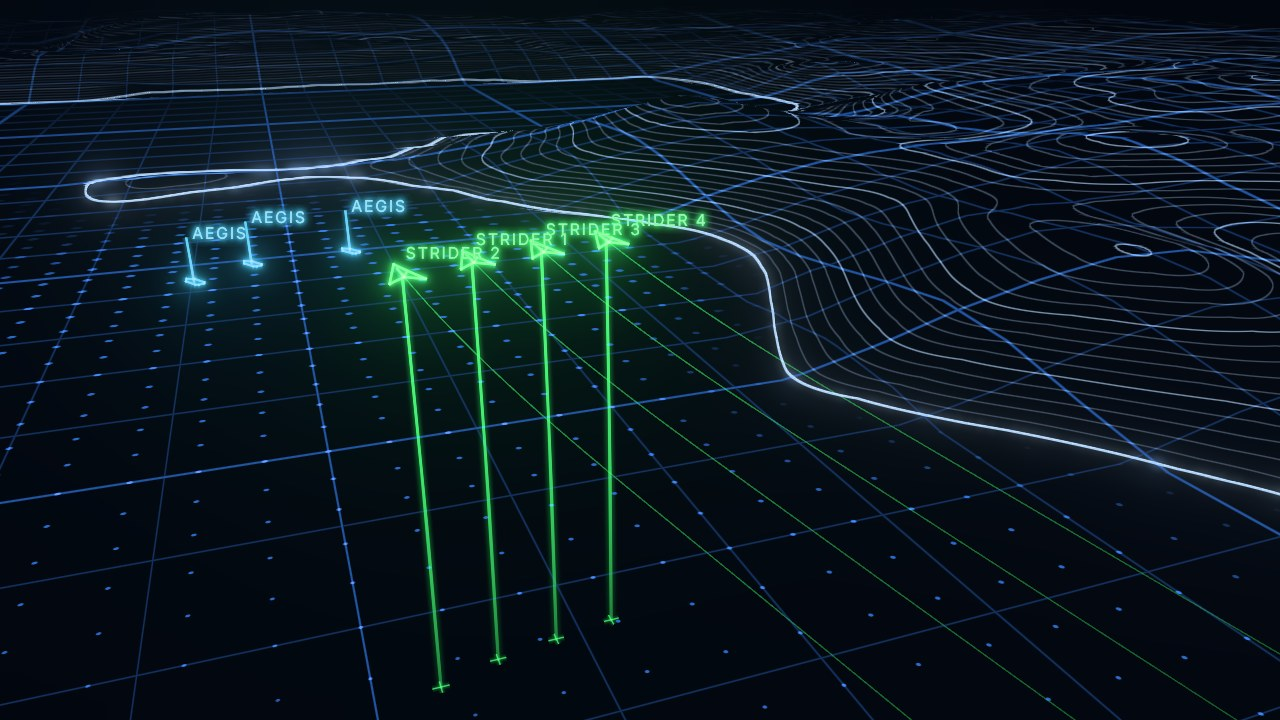
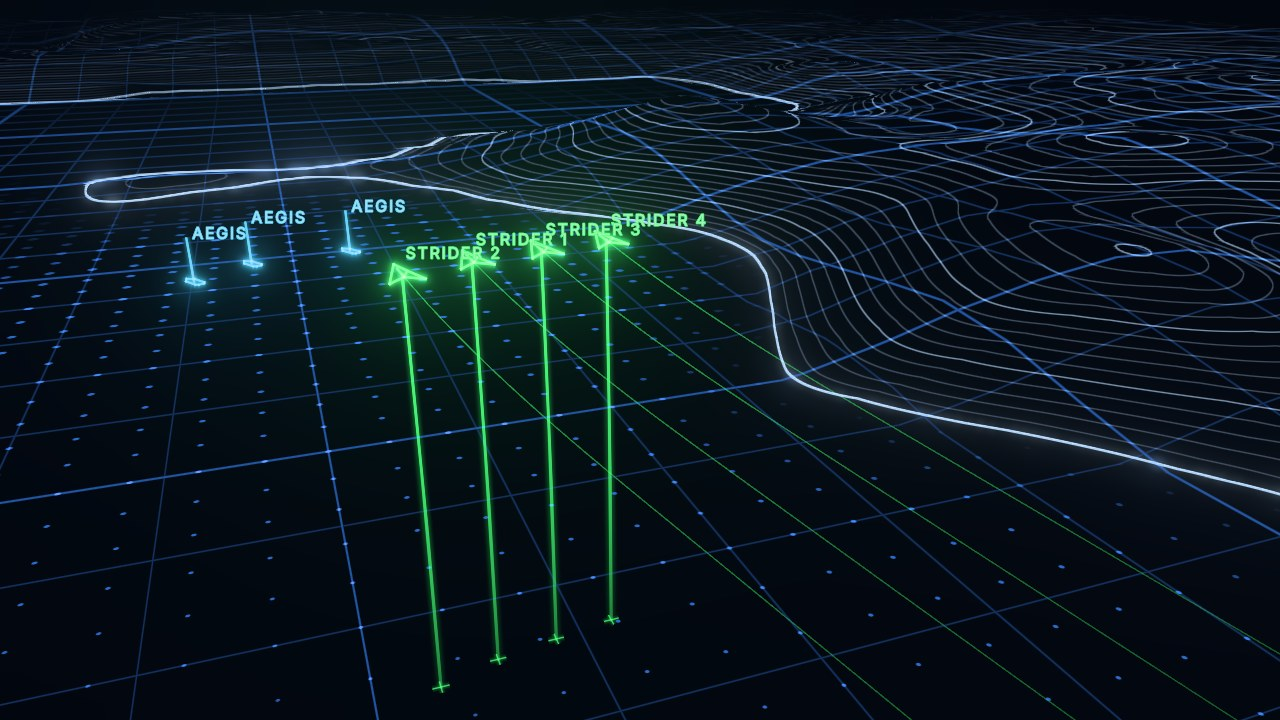
Names without a baked glow: crisp text, bloom makes the halo
The label canvases no longer draw the text with shadowBlur in the side's colour: that glow stayed with bloom off
and piled up with the bloom halo with it on. Now: the side's colour as a thin outline around the light core, crisp;
same texture size, so names keep their size and place. Cache-buster v=49; previews re-rendered.

Claude-Session: https://claude.ai/code/session_01TyqJ8XUbLyKheSuJWm7x2w

Changed region(s): [[0.3125, 0.275, 0.5625, 0.3667], [0.125, 0.2444, 0.3438, 0.3361]]

diff --git a/js/core.js b/js/core.js
@@ -64,7 +64,9 @@ const TEX = {
 /* ===== Text labels =====
    One texture per (text, colour, struck), shared through LABEL_CACHE and reference-counted by setLabel: when no sprite
    shows a label any more (a colour or the squadron name changed) its texture is freed, so edits never pile up. Sprites with sizeAttenuation off keep a constant size on screen.
-   The look of the replay: wide-spaced, light, a near-white core with a glow in the side's colour. */
+   The look of the replay: wide-spaced, light, a near-white core outlined in the side's colour — crisp: the glow
+   around it comes from bloom (property bloom, main.js PIPE), never baked into the texture (it would stay with bloom
+   off and pile up with it on). */
 const LABEL_FONT = 26, LABEL_H = 44, LABEL_PAD = 12;
 const LABEL_FACE = `400 ${LABEL_FONT}px "Bahnschrift", "Eurostile", "DIN Alternate", "Segoe UI", Arial, sans-serif`;
 const LABEL_CACHE = new Map();
@@ -77,10 +79,13 @@ function labelMat(text, color, struck) {
   font(); const w = Math.ceil(g.measureText(text).width) + LABEL_PAD * 2;
   c.width = w; c.height = LABEL_H; font();
   const L = THREE.LinearSRGBColorSpace, core = '#' + new THREE.Color().setStyle(color, L).lerp(PAL.white, 0.55).getHexString(L), y = LABEL_H / 2 + 1;   // blended on screen (sRGB), not in linear
-  g.textBaseline = 'middle'; g.shadowColor = color;
-  g.fillStyle = color; g.shadowBlur = 14; g.fillText(text, LABEL_PAD, y); g.shadowBlur = 6; g.fillText(text, LABEL_PAD, y);
-  g.shadowBlur = 0; g.fillStyle = core; g.fillText(text, LABEL_PAD, y);
-  if (struck) { g.strokeStyle = core; g.shadowColor = color; g.shadowBlur = 8; g.lineWidth = 3; g.beginPath(); g.moveTo(LABEL_PAD - 6, y); g.lineTo(w - LABEL_PAD + 6, y); g.stroke(); }
+  g.textBaseline = 'middle'; g.lineJoin = g.lineCap = 'round';
+  g.strokeStyle = color; g.lineWidth = 2.5; g.strokeText(text, LABEL_PAD, y);   // the side's colour around the core
+  g.fillStyle = core; g.fillText(text, LABEL_PAD, y);
+  if (struck) {
+    g.beginPath(); g.moveTo(LABEL_PAD - 6, y); g.lineTo(w - LABEL_PAD + 6, y);
+    g.strokeStyle = color; g.lineWidth = 5; g.stroke(); g.strokeStyle = core; g.lineWidth = 2.5; g.stroke();
+  }
   const tex = new THREE.CanvasTexture(c); tex.colorSpace = THREE.SRGBColorSpace; tex.minFilter = THREE.LinearFilter; tex.generateMipmaps = false;
   m = new THREE.SpriteMaterial({ map: tex, transparent: true, depthWrite: false, depthTest: false, sizeAttenuation: false });
   m.userData.shared = true; m.userData.aspect = w / LABEL_H; m.userData.key = key; m.userData.refs = 0;
@@ -88,7 +93,7 @@ function labelMat(text, color, struck) {
   return m;
 }
 /* label sprite: bottom-left corner at the anchor; setLabel swaps its material */
-const LABEL_SCALE = 0.027;   // height at distance 1 (camera fov 40°: ≈ 3.7 % of the screen height, the glow included)
+const LABEL_SCALE = 0.027;   // height at distance 1 (camera fov 40°: ≈ 3.7 % of the screen height, the padding included)
 /* label size factor: names are a share of the screen height, so on screens narrower than square (phones in
    portrait) they shrink with the aspect (down to LABEL_MIN_K), or they would be as wide as the screen */
 const LABEL_MIN_K = 0.55, LABEL_SPRITES = [];   // every label sprite ever made (pooled with its unit: bounded)

diff --git a/index.html b/index.html
@@ -4,28 +4,28 @@
 <meta charset="utf-8">
 <title>Wireframe Skies</title>
 <link rel="icon" type="image/svg+xml" href="favicon.svg">
-<link rel="stylesheet" href="style.css?v=48">
+<link rel="stylesheet" href="style.css?v=49">
 </head>
 <body>
 <canvas id="c"></canvas>
 <div id="splash"><div class="t">WIREFRAME SKIES</div><div class="s">LOADING MISSION DATA…</div><div class="dots"><i></i><i></i><i></i><i></i></div></div>
-<script src="js/three.min.js?v=48"></script>
-<script src="js/core.js?v=48"></script>
-<script src="js/noise.js?v=48"></script>
-<script src="js/terrain.js?v=48"></script>
-<script src="js/flight.js?v=48"></script>
-<script src="js/models.js?v=48"></script>
-<script src="js/effects.js?v=48"></script>
-<script src="js/audio.js?v=48"></script>
-<script src="js/squad.js?v=48"></script>
-<script src="js/forces.js?v=48"></script>
-<script src="js/enemies.js?v=48"></script>
-<script src="js/bosses.js?v=48"></script>
-<script src="js/allies.js?v=48"></script>
-<script src="js/camera.js?v=48"></script>
-<script src="js/main.js?v=48"></script>
-<script src="js/properties.js?v=48"></script>
-<script src="js/settings.js?v=48"></script>
+<script src="js/three.min.js?v=49"></script>
+<script src="js/core.js?v=49"></script>
+<script src="js/noise.js?v=49"></script>
+<script src="js/terrain.js?v=49"></script>
+<script src="js/flight.js?v=49"></script>
+<script src="js/models.js?v=49"></script>
+<script src="js/effects.js?v=49"></script>
+<script src="js/audio.js?v=49"></script>
+<script src="js/squad.js?v=49"></script>
+<script src="js/forces.js?v=49"></script>
+<script src="js/enemies.js?v=49"></script>
+<script src="js/bosses.js?v=49"></script>
+<script src="js/allies.js?v=49"></script>
+<script src="js/camera.js?v=49"></script>
+<script src="js/main.js?v=49"></script>
+<script src="js/properties.js?v=49"></script>
+<script src="js/settings.js?v=49"></script>
 <script>
   // Audio listener is registered at the end of <body>, as the Wallpaper Engine docs recommend
   if (window.wallpaperRegisterAudioListener) {

diff --git a/CLAUDE.md b/CLAUDE.md
@@ -42,7 +42,7 @@ Sister project and the reference for conventions: `wladbelsky/carrier-wallpaper`
 
 ## Rules / conventions
 - **After changing any JS/CSS file, bump the cache-buster** `?v=N` on all `<script>`/`<link>` tags in
-  `index.html` (WE's CEF caches aggressively). Current: `v=48`.
+  `index.html` (WE's CEF caches aggressively). Current: `v=49`.
 - **New WE property**: add it to `project.json`, read it in `applyUserProperties` (`main.js`) into `CFG`,
   then run `python tools/gen_properties.py`. Property `order` decides the browser-drawer group
   (0–9 camera, 10–19 audio & combat, 20–29 look, 30–39 flight). `repo.spec.js` checks every property is read.
@@ -194,7 +194,8 @@ Sister project and the reference for conventions: `wladbelsky/carrier-wallpaper`
   tuned on screen (line alphas, trail fades, the line core / halo profile) go in as `LIN(a)` = a^2.2, so the look
   holds; the ground composes the map in display space (sRGB palette uniforms, `GROUND_K`, anti-aliased coverage) and
   converts it to linear once (`sRGBTransferEOTF`) — the r149 map exactly; label canvases are `SRGBColorSpace`
-  textures (their core colour is blended in sRGB). Additive overlaps add up in linear light (brighter where lines
+  textures (their core colour is blended in sRGB) with crisp text and **no baked glow** (no `shadowBlur`): bloom
+  makes the glow, so names are clean with it off and don't get a double halo with it on. Additive overlaps add up in linear light (brighter where lines
   cross) and roll off to white (`rolloff`).
 - **Render pipeline** (`PIPE`, `main.js`; `renderFrame()` is the only place that renders a frame): with bloom on, a
   `THREE.RenderPipeline` of `pass(scene, camera)` + `THREE.bloom` (strength `BLOOM.strength` × the `bloomstrength`
